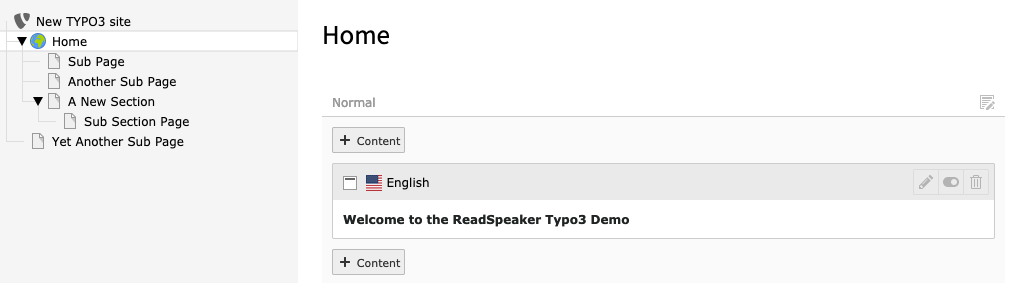
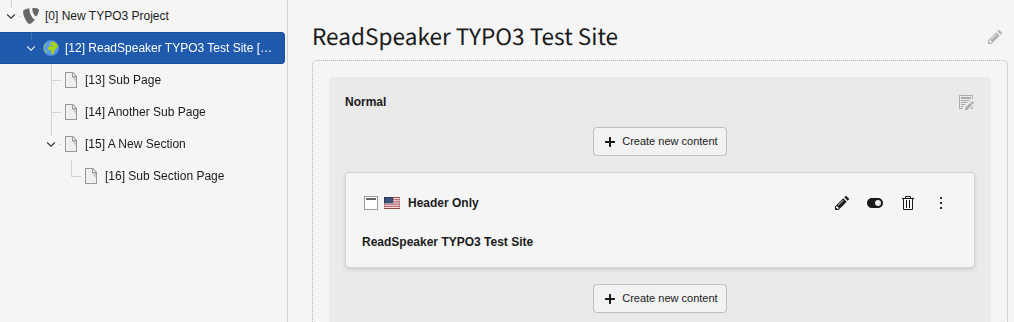
Update documentation and images for Using the Extension section

diff --git a/Documentation/Using/Index.rst b/Documentation/Using/Index.rst
@@ -37,27 +37,27 @@ Use this mode if you want to enable the extension on a single page or just a few
 
    To use webReader and/or docReader as a plugin, go to *Web > Page* and locate the page where you want it to be added.
 
-   Click on the :guilabel:`+ Content` button where you want webReader to be displayed:
+   Click on the :guilabel:`+ Create new content` button where you want webReader to be displayed:
 
    .. figure:: ../Images/using-plugin-content.png
       :class: with-shadow
       :alt: Adding content to a web page
 
-2. Select plug-in type
+2. Select plugin type
 
-   Select *General Plugin* from the *Plugins* tab
+   Select the *Plugins* tab
 
    .. figure:: ../Images/using-plugin-pluginstab.png
       :class: with-shadow
-      :alt: The plug-ins tab
+      :alt: The plugins tab
 
 3. Select ReadSpeaker Services
 
-   Select *ReadSpeaker Services* from the *Plugin* tab
+   Select *ReadSpeaker Services* from the *Plugins* tab
 
    .. figure:: ../Images/using-plugin-select.png
       :class: with-shadow
-      :alt: The plug-in selector
+      :alt: The plugin selector
 
 4. Save
 
@@ -67,7 +67,7 @@ Use this mode if you want to enable the extension on a single page or just a few
       :class: with-shadow
       :alt: Save the plugin selection
 
-5. Verify that the plug-in is visible on the page
+5. Verify that the plugin is visible on the page
 
    The plugin should now be visible in the content section:
 
@@ -96,45 +96,45 @@ Use this method if you want the extension to be enabled on all pages in the webs
 
 .. rst-class:: bignums-xxl
 
-1. Locate the root template
+1. Locate the root TypoScript record
 
-   Go to Web > Template and select the website's root page:
+   Go to Site Management > TypoScrpt and select the TypoScript record with the root level flag:
 
    .. figure:: ../Images/using-main-root.png
       :class: with-shadow
-      :alt: Page template list
+      :alt: TypoScript selected in list
 
-2. Info/Modify
+2. Edit TypoScript Record
 
-   Make sure *Info/Modify* is selected in the dropdown at the top of the page:
+   Make sure *Edit TypoScript Record* is selected in the dropdown at the top of the page:
 
    .. figure:: ../Images/using-main-infomodify.png
       :class: with-shadow
-      :alt: Info/Modify selected in the drop-down menu
+      :alt: Edit TypoScript Record selected in the drop-down menu
 
 3. Set it up
 
-   Now click on *Setup*:
+   Now click on :guilabel:`Setup`:
 
    .. figure:: ../Images/using-main-setup.png
       :class: with-shadow
-      :alt: Setup part of template section list
+      :alt: Setup part of TypoScript record list
 
-4. Alter the TypoScript code
+4. Alter the TypoScript record
 
-   webReader can be added as a :typoscript:`FLUIDTEMPLATE` object in the TypoScript code:
+   webReader can be added as a :typoscript:`FLUIDTEMPLATE` object in the TypoScript record:
 
    .. code-block:: typoscript
 
-      page.20 = FLUIDTEMPLATE
-      page.20 {
+      page.10 = FLUIDTEMPLATE
+      page.10 {
          templateName = Webreader
          templateRootPaths {
             10 = EXT:readspeaker_services/Resources/Private/Templates
          }
       }
 
-   Where to insert the code depends on where you want the webReader button to show up. In the example below, the Listen button will always be displayed at the top of the screen, above any page content:
+   Objects will be rendered on the page in the order of the numbers, not in the order they get defined in the TypoScript record. The placement of the webReader button therefore depends on the number assigned to the object. In the example below, the Listen button will always be displayed at the top of the screen, above any page content:
 
    .. figure:: ../Images/using-main-setupcode.png
       :class: with-shadow
